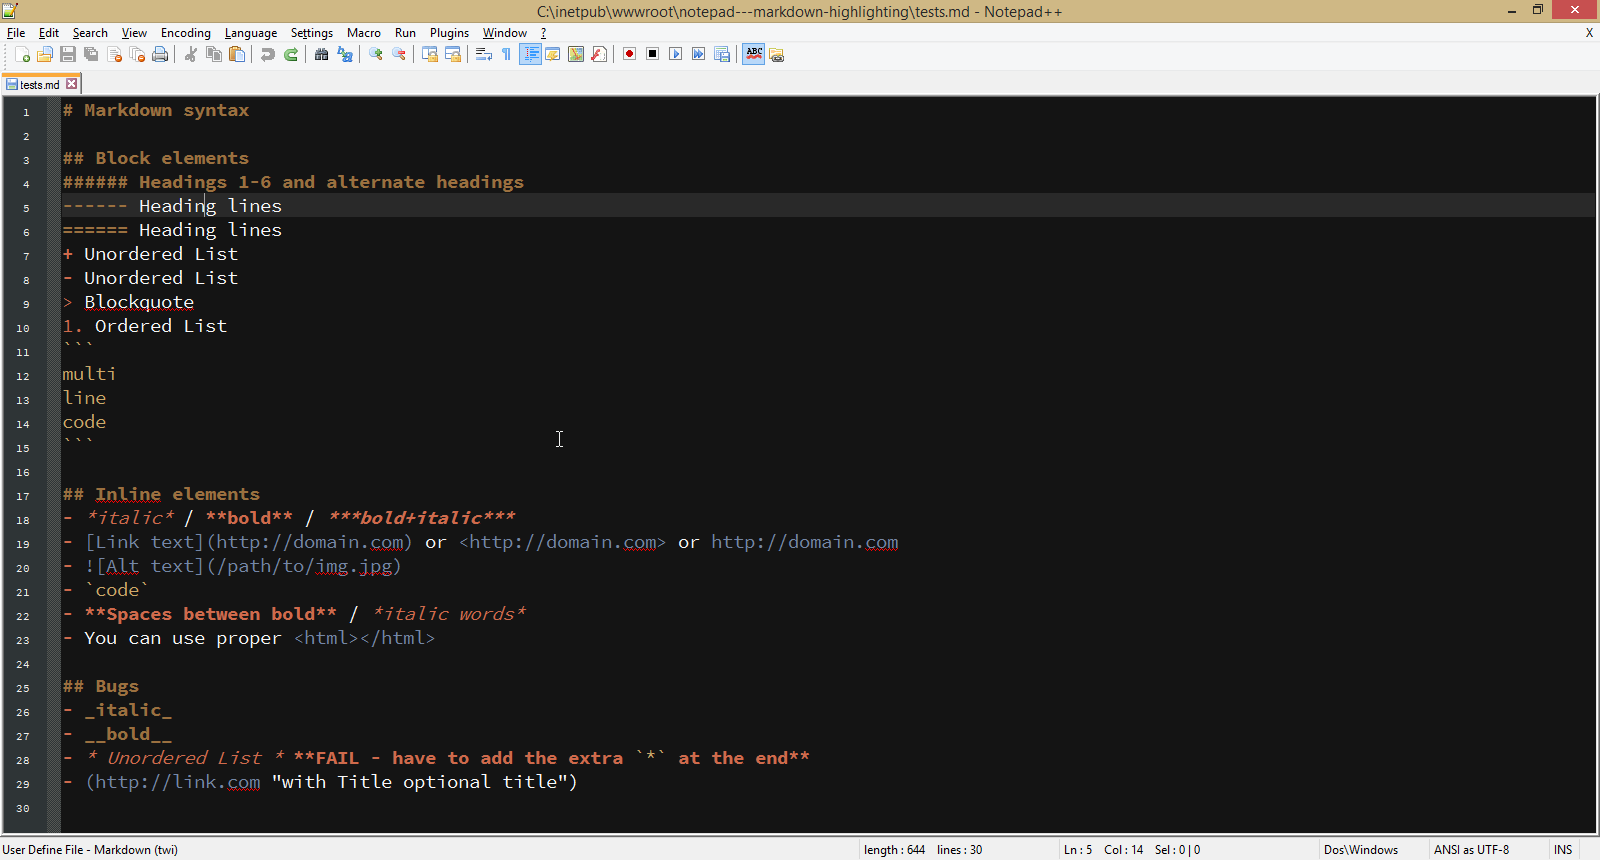
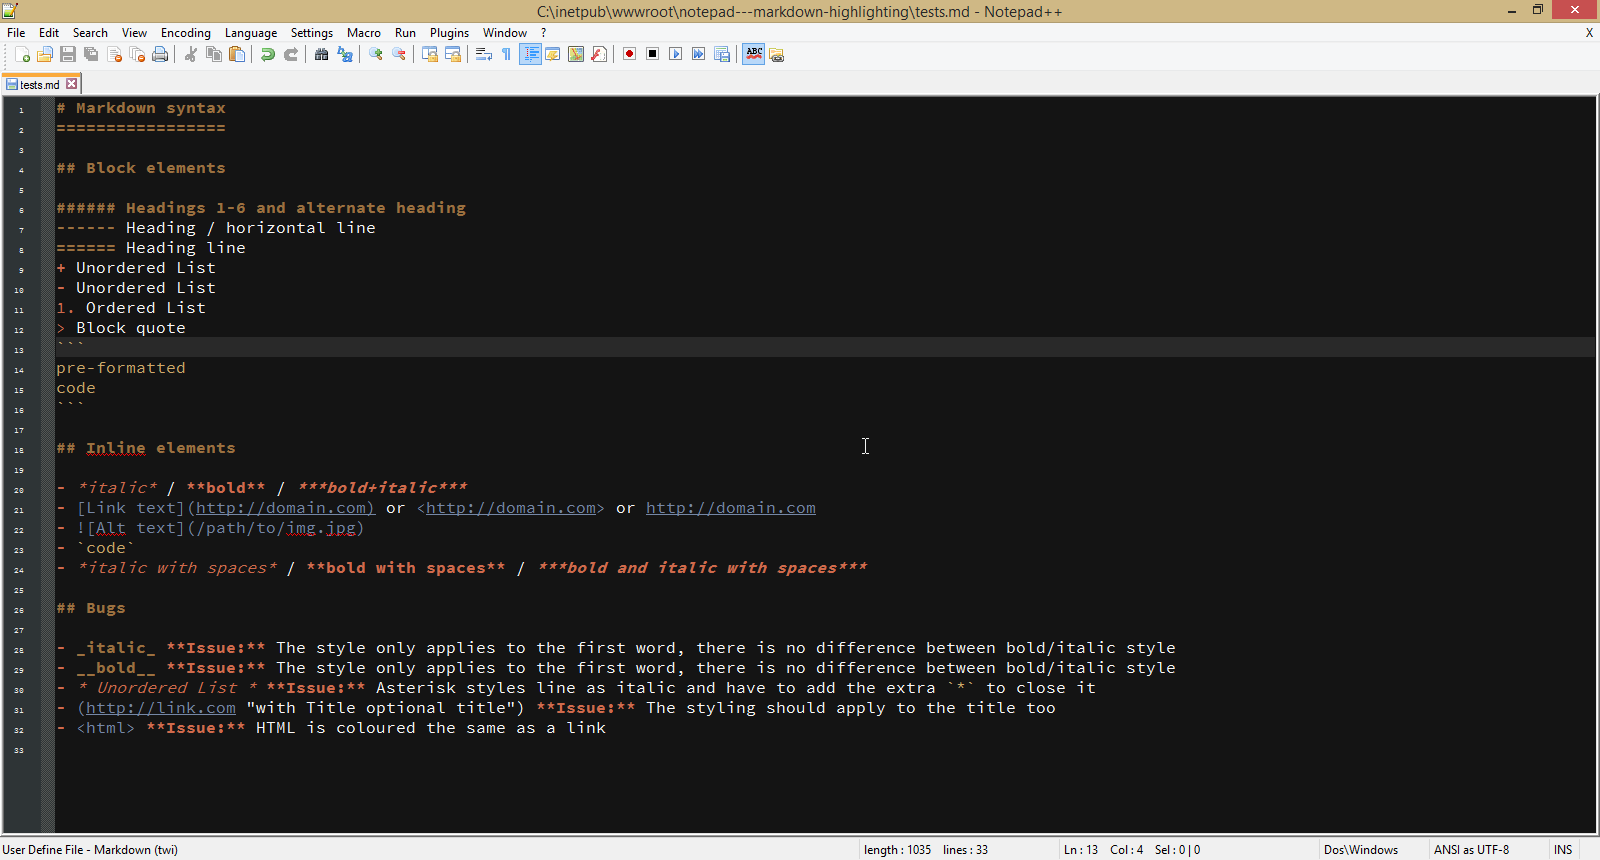
added labels for the bugs and put <html> syntax as a bug

diff --git a/tests.md b/tests.md
@@ -1,29 +1,32 @@
 # Markdown syntax
+=================
 
 ## Block elements
-###### Headings 1-6 and alternate headings
------- Heading lines
-====== Heading lines
+
+###### Headings 1-6 and alternate heading
+------ Heading / horizontal line
+====== Heading line
 + Unordered List
 - Unordered List
-> Blockquote
 1. Ordered List
+> Block quote
 ```
-multi
-line
+pre-formatted
 code
 ```
 
 ## Inline elements
+
 - *italic* / **bold** / ***bold+italic***
 - [Link text](http://domain.com) or <http://domain.com> or http://domain.com
 - ![Alt text](/path/to/img.jpg)
 - `code`
-- **Spaces between bold** / *italic words*
-- You can use proper <html></html>
+- *italic with spaces* / **bold with spaces** / ***bold and italic with spaces***
 
 ## Bugs
-- _italic_
-- __bold__
-- * Unordered List * **FAIL - have to add the extra `*` at the end**
-- (http://link.com "with Title optional title")
+
+- _italic_ **Issue:** The style only applies to the first word, there is no difference between bold/italic style
+- __bold__ **Issue:** The style only applies to the first word, there is no difference between bold/italic style
+- * Unordered List * **Issue:** Asterisk styles line as italic and have to add the extra `*` to close it
+- (http://link.com "with Title optional title") **Issue:** The styling should apply to the title too
+- <html> **Issue:** HTML is coloured the same as a link
